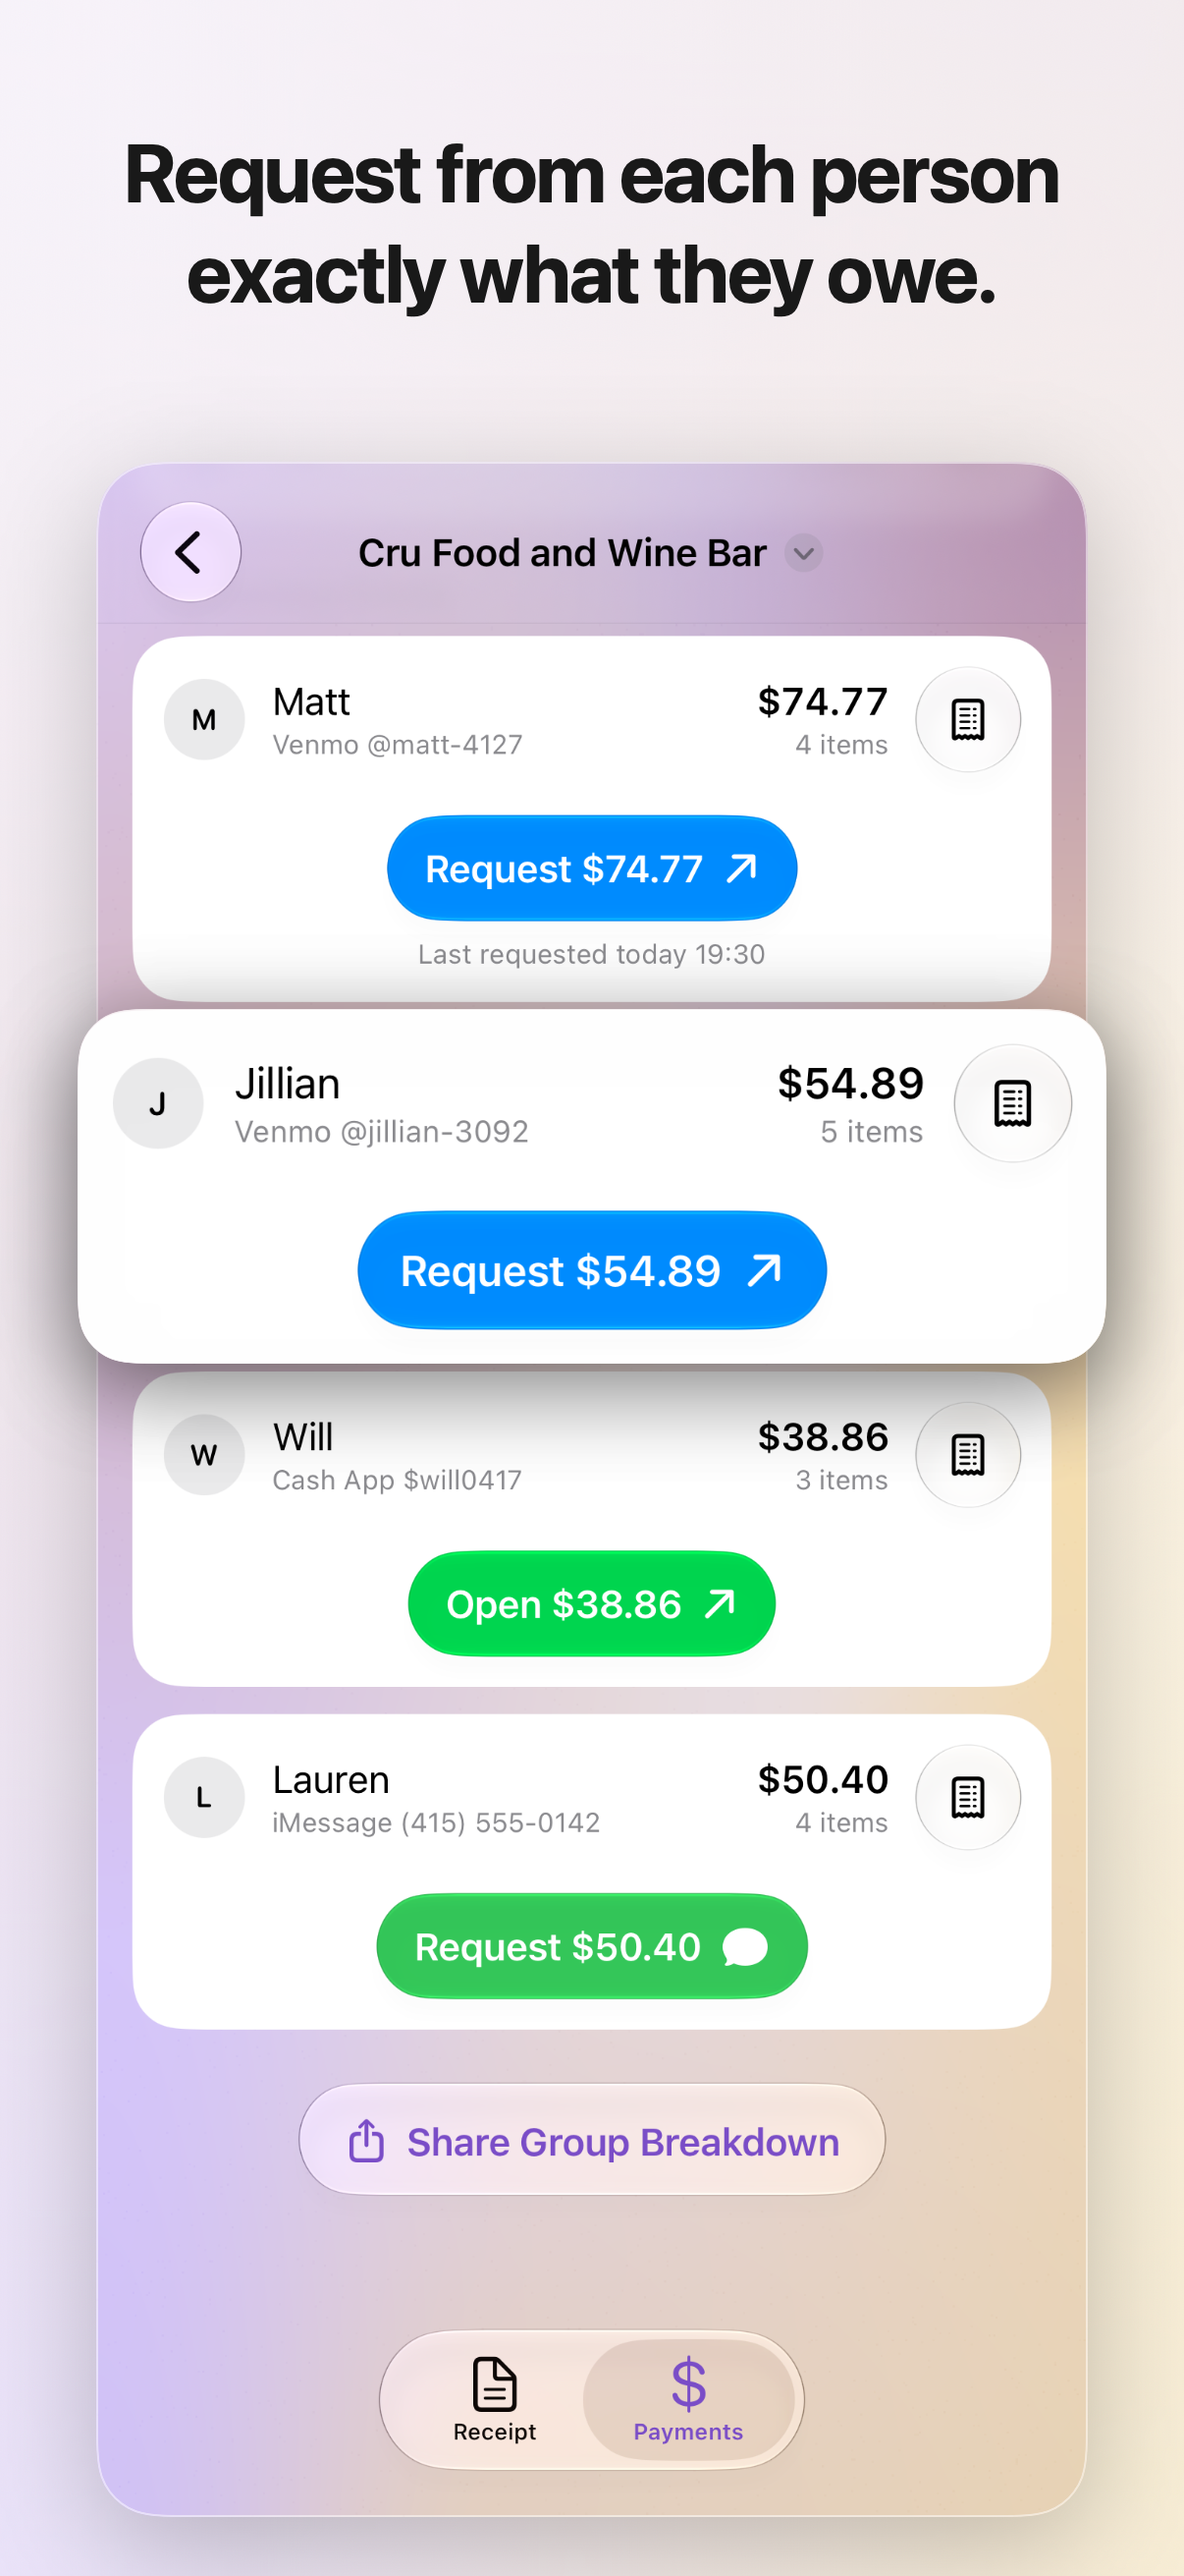
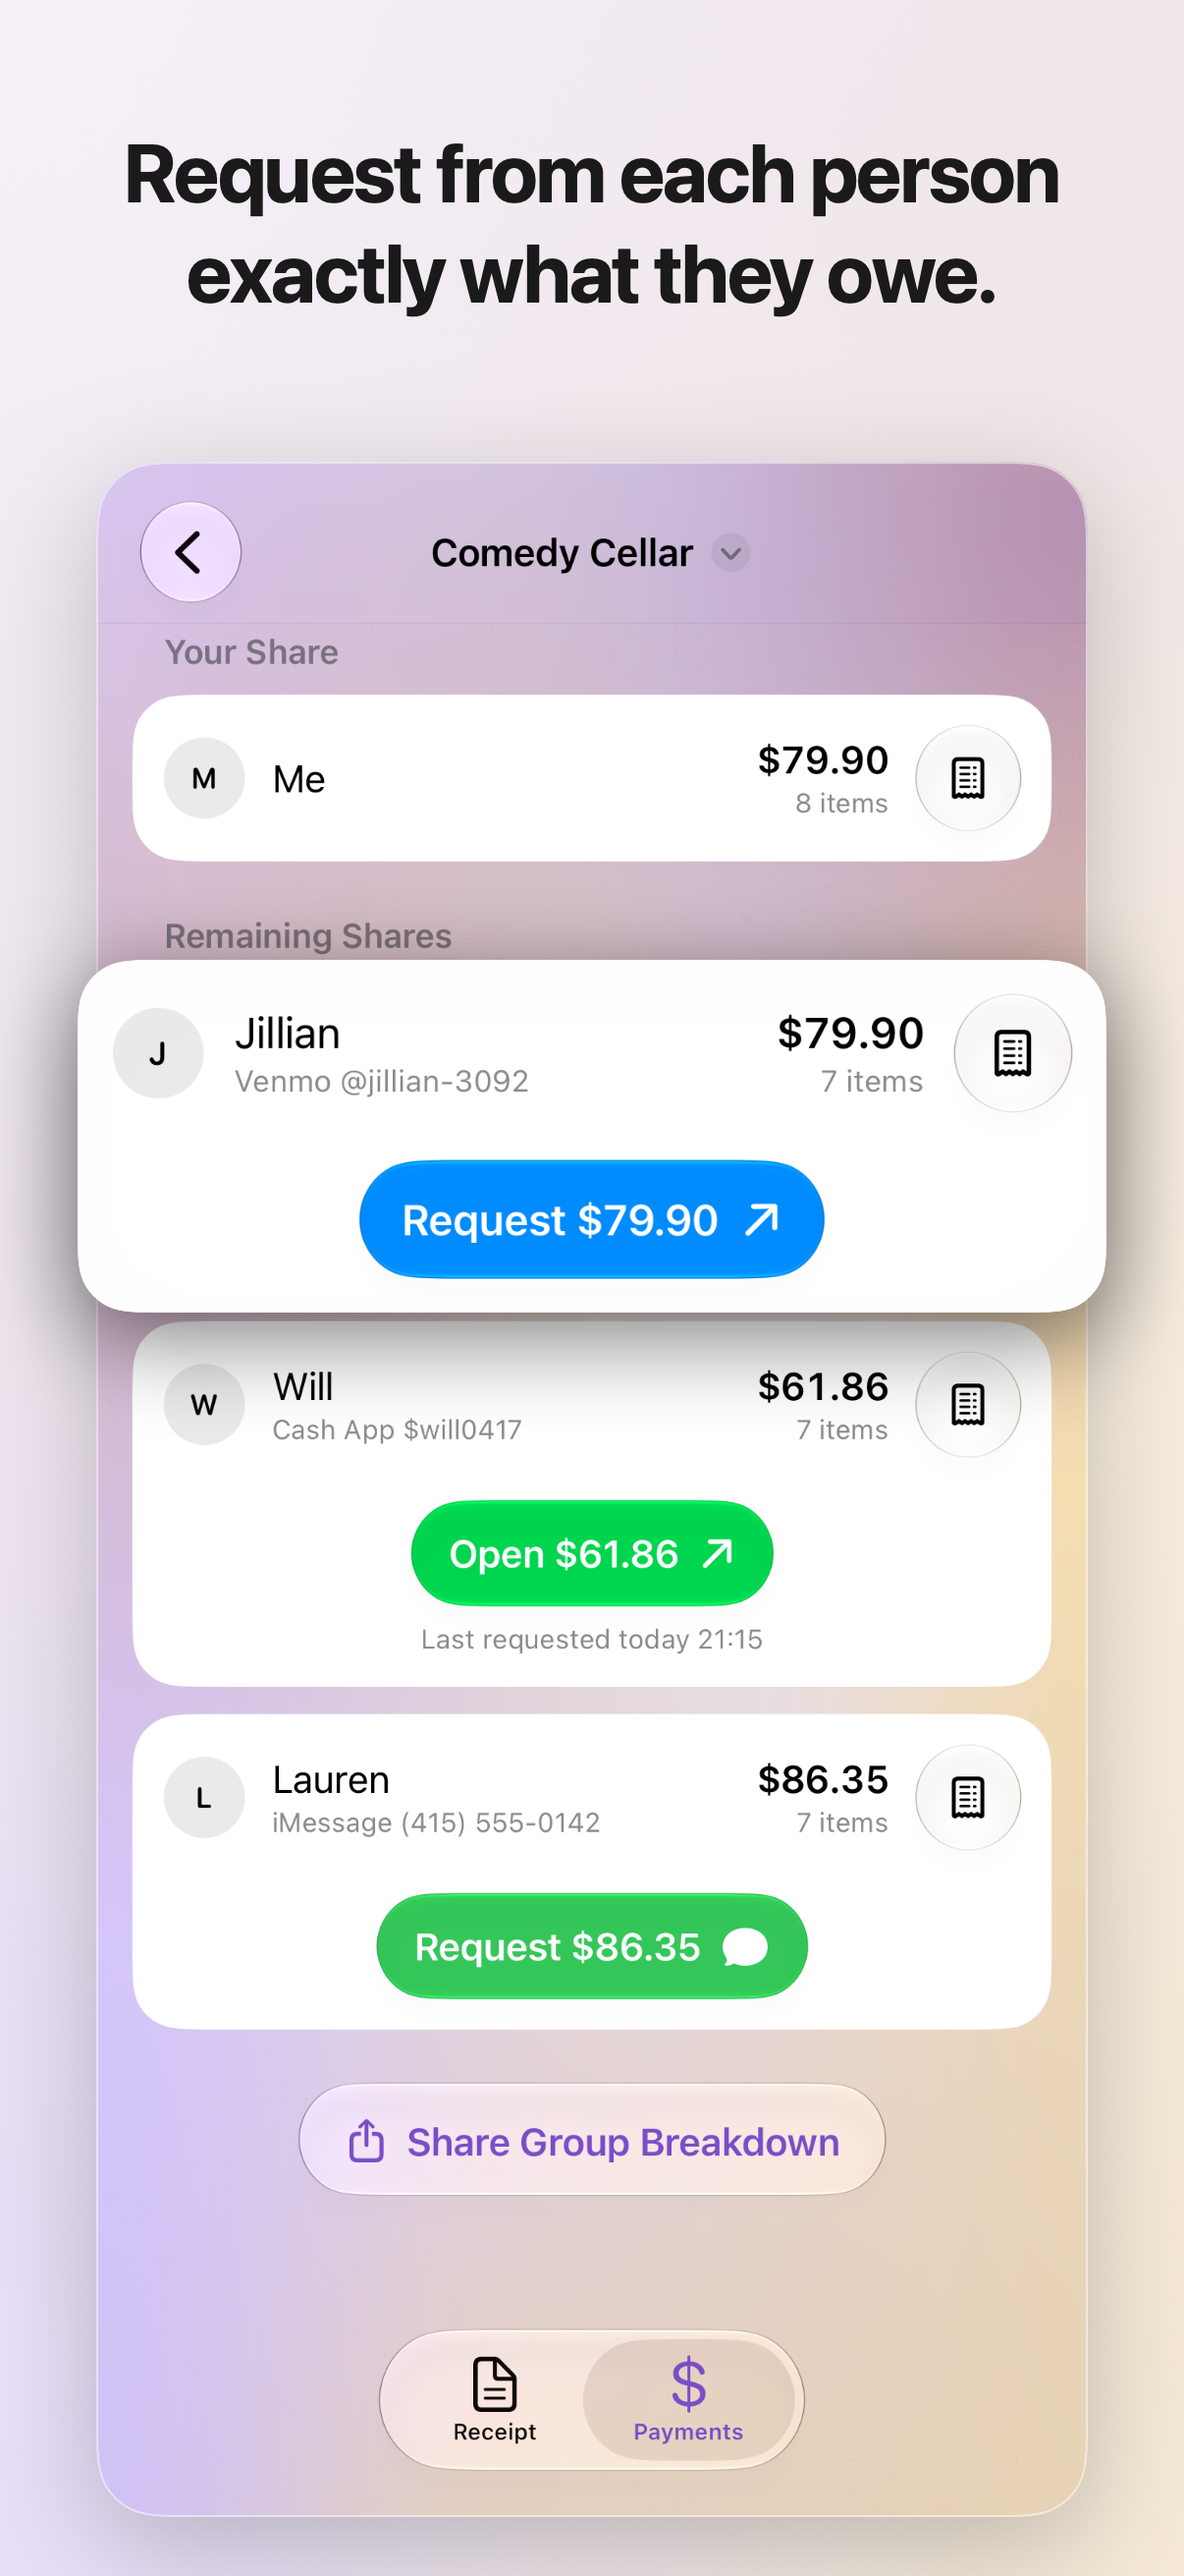
Header update

Changed region(s): [[0.0614, 0.1854, 0.9511, 0.6487], [0.675, 0.6796, 0.7363, 0.7105], [0.5216, 0.7414, 0.5829, 0.7723]]

diff --git a/Tools/Screenshots/Composer/SearchArtwork.swift b/Tools/Screenshots/Composer/SearchArtwork.swift
@@ -10,11 +10,11 @@ struct SearchArtwork: View {
   let capture: Capture
   let photo: CGImage
   /// The part of the photo the camera shows, in its pixels: the receipt from its header down to
-  /// the tip suggestions, above the line with the restaurant's email address.
-  var photoCrop = CGRect(x: 70, y: 150, width: 610, height: 760)
+  /// the subtotals, inside the paper's edges.
+  var photoCrop = CGRect(x: 40, y: 150, width: 1130, height: 1407)
   /// Where the beam crosses the photo, in its pixels: the line being written on the reading
   /// screen.
-  var beamY: CGFloat = 505
+  var beamY: CGFloat = 1345
 
   private let top: CGFloat = 660
   private let cameraFrame = CGRect(x: 640, y: 780, width: 1100, height: 1370)
@@ -52,6 +52,10 @@ struct SearchArtwork: View {
         Image(decorative: cropped, scale: 1)
           .resizable()
           .interpolation(.high)
+          // The club's red lights would fight the wash, so the paper is shown neutral and bright.
+          .grayscale(1)
+          .contrast(1.35)
+          .brightness(0.2)
           .frame(width: cameraFrame.width, height: photoCrop.height * scale)
         ArtworkPalette.mint
           .frame(height: beam)
@@ -75,8 +79,6 @@ struct SearchArtwork: View {
       }
       .shadow(color: ArtworkPalette.ink.opacity(0.16), radius: 6, y: 4)
       .shadow(color: ArtworkPalette.ink.opacity(0.3), radius: 70, y: 44)
-      // The receipt leans left in the photo, so leaning the card right levels its text.
-      .rotationEffect(.degrees(3))
       .position(x: cameraFrame.midX, y: cameraFrame.midY)
     }
   }

diff --git a/Sources/Features/Settings/SettingsView.swift b/Sources/Features/Settings/SettingsView.swift
@@ -32,17 +32,6 @@ struct SettingsView: View {
       }
 
       Section {
-        NavigationLink {
-          ReceiptCurrencyPicker(selection: $defaultCurrencyCode)
-        } label: {
-          LabeledContent(
-            "Currency", value: ReceiptCurrency.localizedName(defaultCurrencyCode))
-        }
-      } header: {
-        Text("Default Currency")
-      }
-
-      Section {
         Picker("Split Tax/Tip", selection: $defaultAdjustmentSplitMethod) {
           ForEach(ReceiptAdjustmentSplitMethod.allCases) { method in
             Text(method.title)
@@ -52,6 +41,17 @@ struct SettingsView: View {
         .pickerStyle(.menu)
       } header: {
         Text("Default Split")
+      }
+
+      Section {
+        NavigationLink {
+          ReceiptCurrencyPicker(selection: $defaultCurrencyCode)
+        } label: {
+          LabeledContent(
+            "Currency", value: ReceiptCurrency.localizedName(defaultCurrencyCode))
+        }
+      } header: {
+        Text("Default Currency")
       }
 
       Section {

diff --git a/Tools/Screenshots/Capture/StoreScreenshots.swift b/Tools/Screenshots/Capture/StoreScreenshots.swift
@@ -21,7 +21,12 @@ final class StoreScreenshots: ScenarioTestCase {
 
   @MainActor
   func testSplit() throws {
-    try capture(name: "03-split", scenario: "split", highlight: "receipt-participants")
+    try capture(name: "03-split", scenario: "split", highlight: "receipt-participants") { app in
+      try self.waitForHighlight("receipt-participants")
+      for name in ["Jillian", "Will"] {
+        app.buttons[name].firstMatch.tap()
+      }
+    }
   }
 
   @MainActor
@@ -49,7 +54,7 @@ final class StoreScreenshots: ScenarioTestCase {
   @MainActor
   func testLibrary() throws {
     try capture(
-      name: "01-library", scenario: "library", highlight: "library-row-Cru Food and Wine Bar")
+      name: "01-library", scenario: "library", highlight: "library-row-Comedy Cellar")
   }
 
   /// The receipt being read for the App Store search result, in the header's colors.

diff --git a/Tools/Screenshots/Composer/HeaderArtwork.swift b/Tools/Screenshots/Composer/HeaderArtwork.swift
@@ -10,8 +10,8 @@ struct HeaderArtwork: View {
   let slips: [CGImage]
 
   /// Pixels per point of the slips on the canvas. The app writes them at 4x.
-  private let slipScale: CGFloat = 0.52
-  private let spread: CGFloat = 700
+  private let slipScale: CGFloat = 0.66
+  private let spread: CGFloat = 890
   private let tilt: Double = 6
   /// The outer slips' size beside the middle one's, so they sit a little farther back.
   private let outerScale: CGFloat = 0.95
@@ -39,7 +39,7 @@ struct HeaderArtwork: View {
     let isOuter = offset != 0
     let scale = slipScale * (isOuter ? outerScale : 1)
     let size = CGSize(width: CGFloat(image.width) * scale, height: CGFloat(image.height) * scale)
-    let top: CGFloat = isOuter ? 250 : 170
+    let top: CGFloat = isOuter ? 150 : 80
     return Image(decorative: image, scale: 1)
       .resizable()
       .interpolation(.high)

diff --git a/Sources/Features/Home/ReceiptMonogramTile.swift b/Sources/Features/Home/ReceiptMonogramTile.swift
@@ -26,6 +26,7 @@ struct ReceiptMonogramTile: View {
           if let initials {
             Text(initials)
               .font(.system(.subheadline, design: .rounded).weight(.bold))
+              .fixedSize()
               .transition(.opacity.combined(with: .scale(scale: 0.8)))
           } else {
             Image(systemName: systemImage)

diff --git a/Tools/Screenshots/Composer/StoreShot.swift b/Tools/Screenshots/Composer/StoreShot.swift
@@ -25,7 +25,7 @@ struct StoreShot {
     StoreShot(
       name: "01-library",
       headline: "Every receipt,\nkept in one place.",
-      highlight: "library-row-Cru Food and Wine Bar",
+      highlight: "library-row-Comedy Cellar",
       highlightOutset: CGSize(width: 16, height: 10),
       highlightCornerRadius: 26),
     StoreShot(
